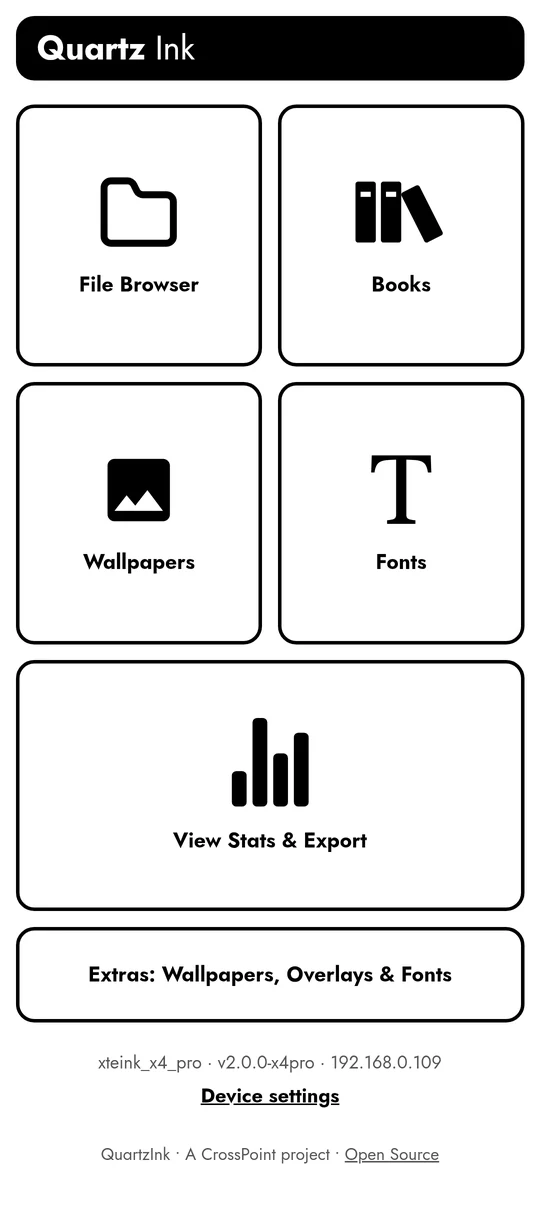
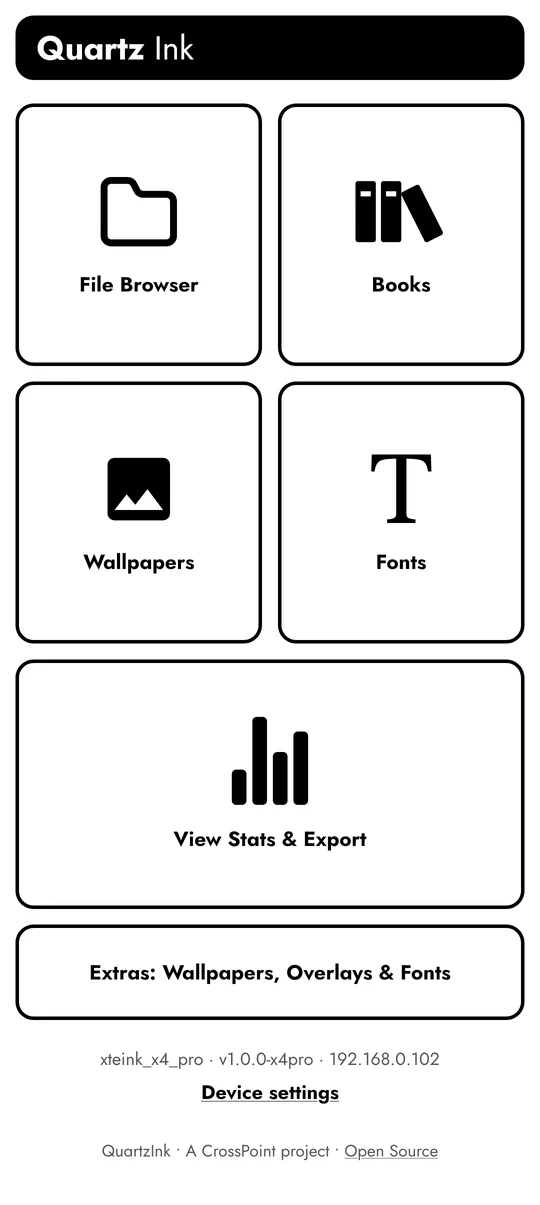
feat: new web dashboard screenshots for the tour
Tim's updated captures (v1.0.0, no status bars), with the 1 px seams from
the phone's scrolling screenshot blended out. Extras now shows the
Wallpapers tab, so its description says so.

Claude-Session: https://claude.ai/code/session_01DsWrJRGWk8edvLYuN5dSxu

diff --git a/src/content/apps/quartzink.md b/src/content/apps/quartzink.md
@@ -112,7 +112,7 @@ showcases:
           See what's installed and remove what you don't use.
       - title: Extras
         image: extras.webp
-        alt: The Extras gallery inside the web dashboard, showing overlays with Install and Use buttons.
+        alt: The Extras gallery inside the web dashboard, showing wallpapers with Install and Use buttons.
         text: |
           Browse the Quartz gallery of wallpapers, overlays and fonts without leaving the dashboard.
 
